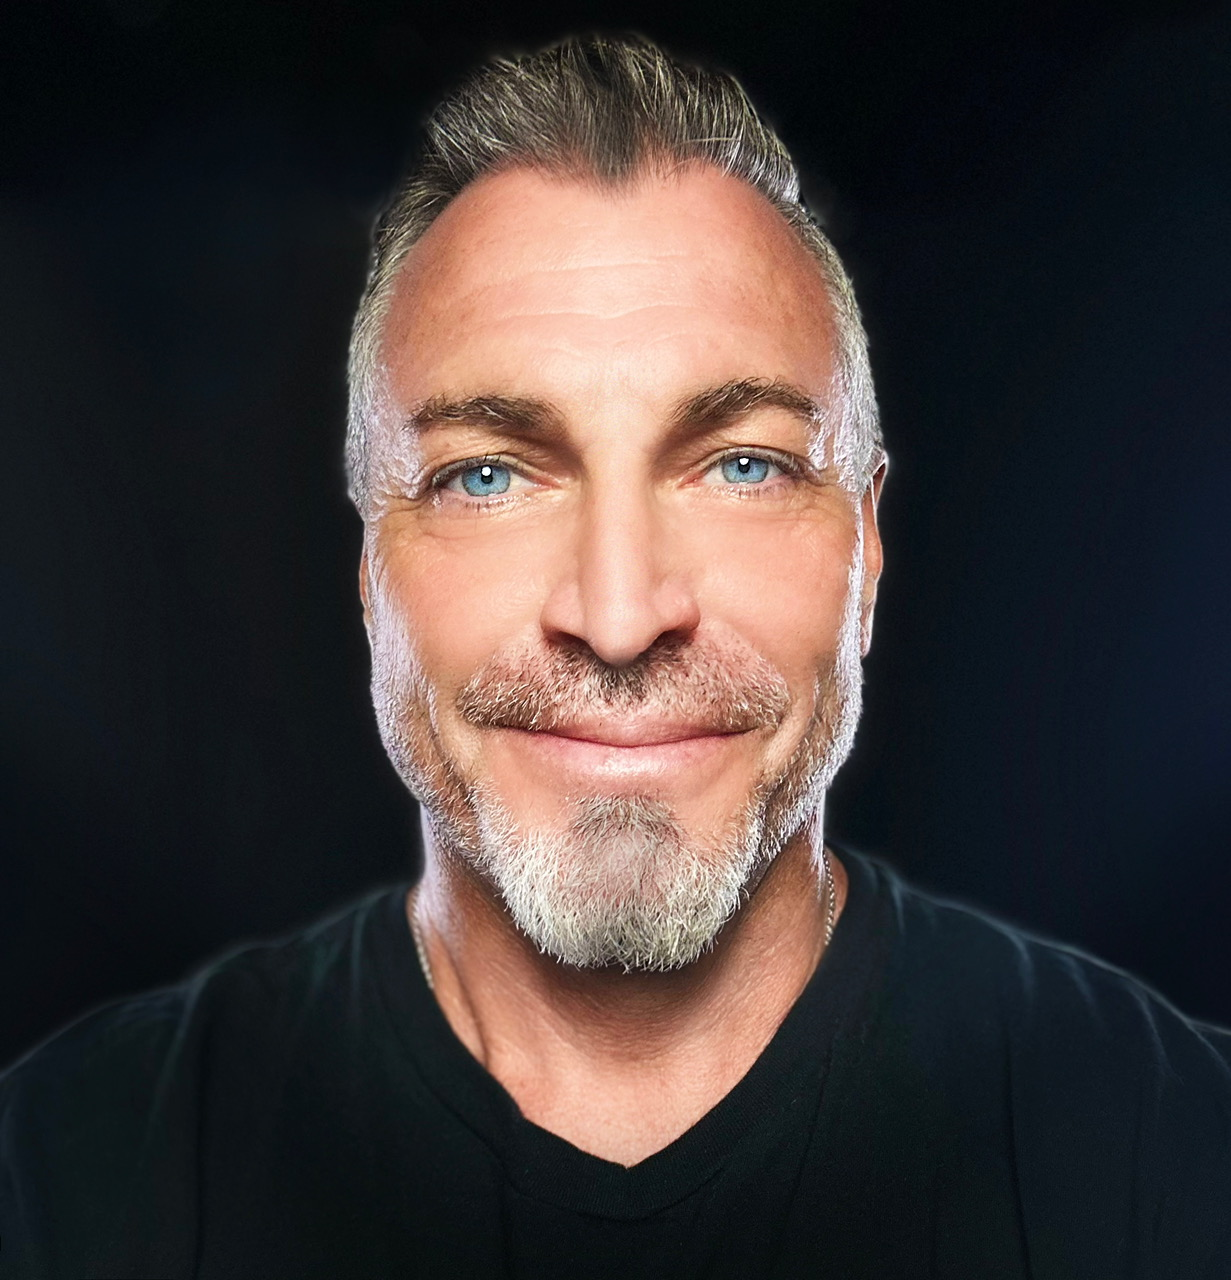
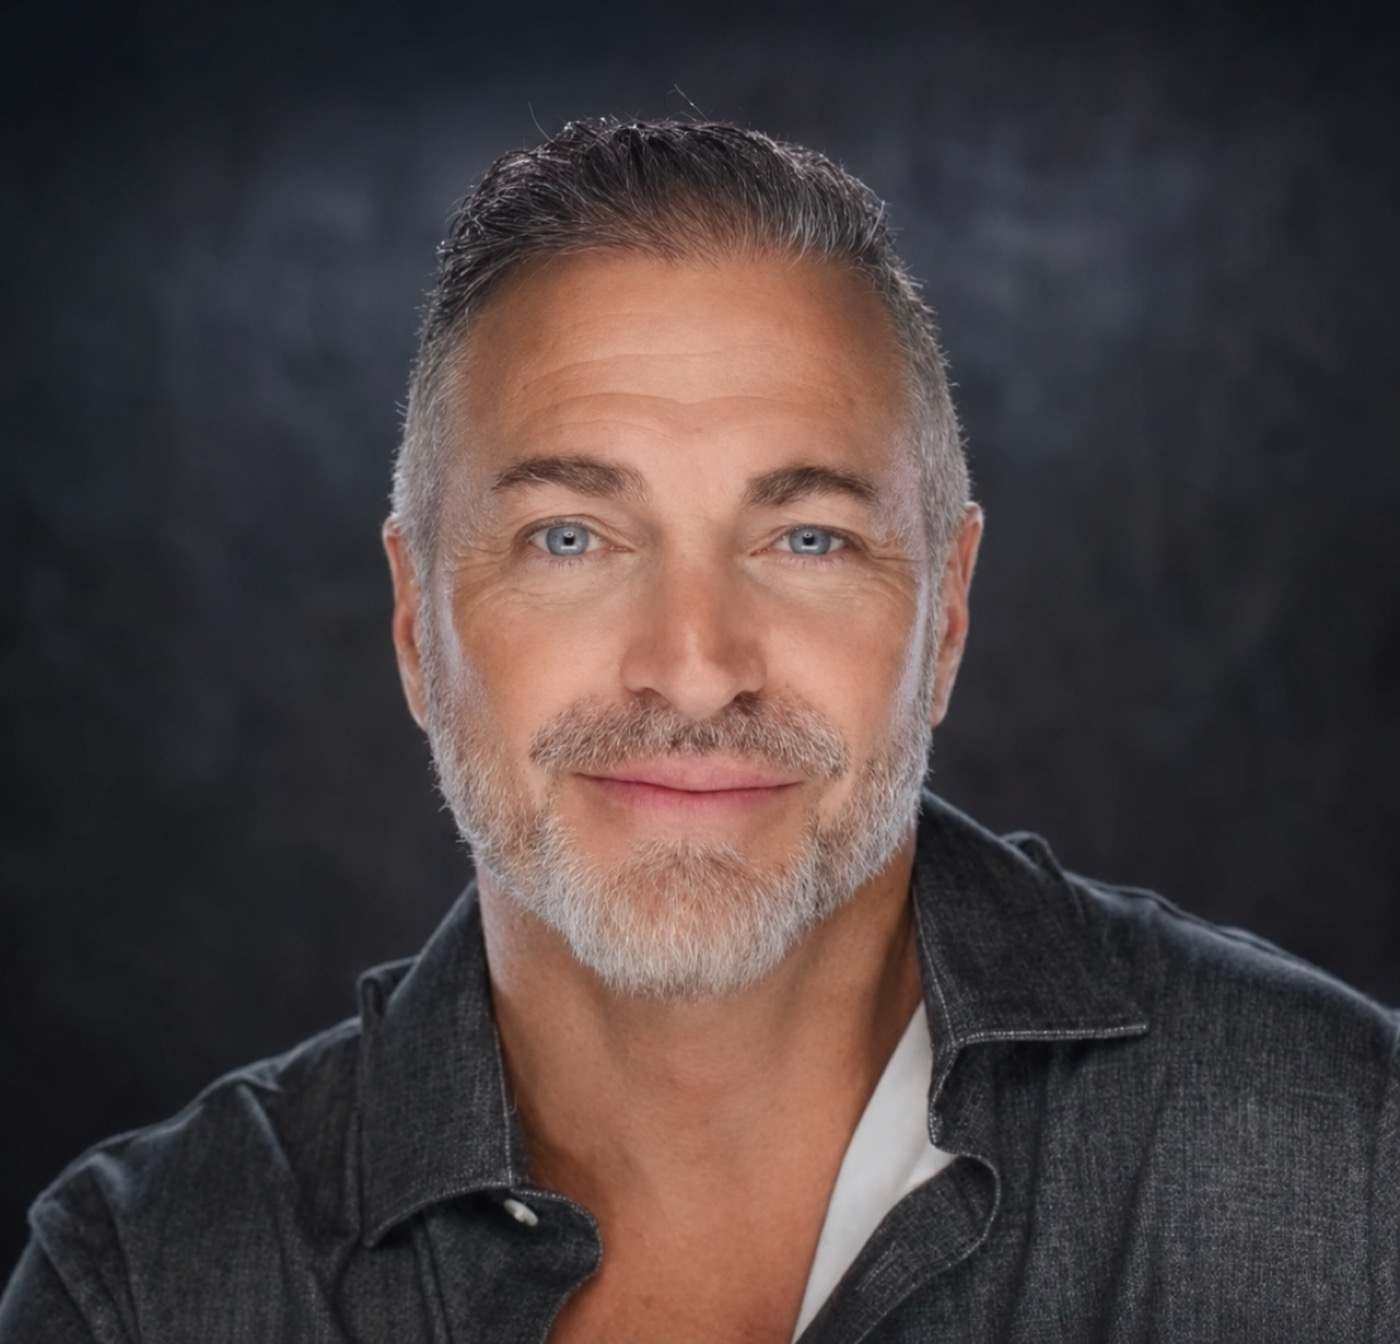
Award under SHINE, weren't fix, item 04 copy, new Mikki + Azai TEDx images, remove seat limit

diff --git a/index.html b/index.html
@@ -227,6 +227,20 @@
         <span class="gold-text shine-glow">SHINE</span>
       </h1>
 
+      <!-- Festival acclaim under the SHINE title -->
+      <div class="flex items-center justify-center gap-4 mt-7">
+        <svg width="34" height="58" viewBox="0 0 40 70" fill="none" class="text-gold/85 shrink-0">
+          <path d="M34 4C20 12 14 26 16 44c0 0-9-6-11-18M34 18C22 24 18 35 19 49c0 0-8-4-10-14M34 33C25 37 22 45 22 55c0 0-7-3-9-11M33 49c-6 2-9 7-9 14 0 0-5-2-7-8" stroke="currentColor" stroke-width="2" stroke-linecap="round"/>
+        </svg>
+        <div>
+          <div class="font-head tracking-[0.16em] text-sm sm:text-base text-goldlt uppercase">Winner &mdash; Best Documentary Short</div>
+          <div class="font-head tracking-[0.14em] text-xs sm:text-sm text-cream/70 uppercase mt-1">Santa Monica Film Festival</div>
+        </div>
+        <svg width="34" height="58" viewBox="0 0 40 70" fill="none" class="text-gold/85 shrink-0" style="transform:scaleX(-1);">
+          <path d="M34 4C20 12 14 26 16 44c0 0-9-6-11-18M34 18C22 24 18 35 19 49c0 0-8-4-10-14M34 33C25 37 22 45 22 55c0 0-7-3-9-11M33 49c-6 2-9 7-9 14 0 0-5-2-7-8" stroke="currentColor" stroke-width="2" stroke-linecap="round"/>
+        </svg>
+      </div>
+
     </div>
 
     <!-- SPLIT: Left image / Right sign-up widget + countdown -->
@@ -295,15 +309,10 @@
 
         <div class="hairline w-full my-5"></div>
 
-        <div class="flex items-center justify-center gap-5 text-center">
-          <div>
-            <div class="font-head text-gold text-2xl leading-none">10,000</div>
-            <div class="font-head tracking-[0.14em] text-[10px] text-cream/55 uppercase mt-1">Seats Total</div>
-          </div>
-          <span class="w-px h-8 bg-gold/25"></span>
+        <div class="flex items-center justify-center text-center">
           <div>
             <div class="font-head text-gold text-2xl leading-none">June 29</div>
-            <div class="font-head tracking-[0.14em] text-[10px] text-cream/55 uppercase mt-1">Doors Close · Midnight</div>
+            <div class="font-head tracking-[0.14em] text-[10px] text-cream/55 uppercase mt-1">Registration Closes · Midnight</div>
           </div>
         </div>
       </div>
@@ -343,22 +352,9 @@
     <span class="font-head tracking-[0.2em] text-sm sm:text-base text-gold uppercase">A Six Minute Film</span>
     <h2 class="font-head font-semibold uppercase text-[1.5rem] sm:text-5xl text-cream mt-3 mb-6 leading-tight">It is six minutes long.<br class="hidden sm:block" /> It will stay with you a lot longer.</h2>
 
-    <!-- Praise & adulation: SHINE festival acclaim (the award is for the FILM, not the TEDx clip) -->
-    <div class="flex items-center justify-center gap-4 mb-9">
-      <svg width="38" height="64" viewBox="0 0 40 70" fill="none" class="text-gold/85 shrink-0">
-        <path d="M34 4C20 12 14 26 16 44c0 0-9-6-11-18M34 18C22 24 18 35 19 49c0 0-8-4-10-14M34 33C25 37 22 45 22 55c0 0-7-3-9-11M33 49c-6 2-9 7-9 14 0 0-5-2-7-8" stroke="currentColor" stroke-width="2" stroke-linecap="round"/>
-      </svg>
-      <div>
-        <div class="font-head tracking-[0.16em] text-sm sm:text-base text-goldlt uppercase">Winner &mdash; Best Documentary Short</div>
-        <div class="font-head tracking-[0.14em] text-xs sm:text-sm text-cream/70 uppercase mt-1">Santa Monica Film Festival</div>
-      </div>
-      <svg width="38" height="64" viewBox="0 0 40 70" fill="none" class="text-gold/85 shrink-0" style="transform:scaleX(-1);">
-        <path d="M34 4C20 12 14 26 16 44c0 0-9-6-11-18M34 18C22 24 18 35 19 49c0 0-8-4-10-14M34 33C25 37 22 45 22 55c0 0-7-3-9-11M33 49c-6 2-9 7-9 14 0 0-5-2-7-8" stroke="currentColor" stroke-width="2" stroke-linecap="round"/>
-      </svg>
-    </div>
 
     <div class="space-y-5 text-cream/80 text-lg font-light leading-relaxed">
-      <p>SHINE asks the question almost no one is brave enough to ask out loud. What if your desires, your choices, even your thoughts were your own? What if something has been quietly shaping them all along?</p>
+      <p>SHINE asks the question almost no one is brave enough to ask out loud. What if your desires, your choices, even your thoughts weren&rsquo;t your own? What if something has been quietly shaping them all along?</p>
       <p>The most surprising part is who is asking it. SHINE was directed by 14 year old Azai Willis. He saw something clearly that most people miss for their entire life. Then he turned it into a six minute movie so striking it won Best Documentary Short at the Santa Monica Film Festival and is now touring major US film festivals.</p>
       <p>Azai is the son of <span class="text-goldlt">Mikki Willis</span>, director and producer of the Plandemic film series, one of the most watched and most censored documentary series of all time.</p>
       <p class="text-cream/95">On June 30th, father and son sit down together, live, to talk about SHINE and the profound insights it reveals about the precarious moment we are living in, and how to recognize the traps of subliminal influence.</p>
@@ -389,7 +385,7 @@
       </div>
       <div class="card rounded-xl p-7 reveal flex gap-4">
         <span class="font-head text-gold text-3xl leading-none">04</span>
-        <p class="text-cream/85 text-lg font-light">A first look at what comes next</p>
+        <p class="text-cream/85 text-lg font-light">Announcement of what&rsquo;s next for Azai</p>
       </div>
     </div>
   </div>
@@ -453,17 +449,13 @@
             <span class="font-head tracking-[0.14em] text-xs text-cream/55 uppercase">Where</span>
             <span class="text-goldlt font-medium text-right">Live online, from anywhere</span>
           </div>
-          <div class="flex justify-between items-center border-b border-gold/15 pb-3">
+          <div class="flex justify-between items-center">
             <span class="font-head tracking-[0.14em] text-xs text-cream/55 uppercase">Cost</span>
             <span class="text-goldlt font-medium text-right">Free</span>
           </div>
-          <div class="flex justify-between items-center">
-            <span class="font-head tracking-[0.14em] text-xs text-cream/55 uppercase">Seats</span>
-            <span class="text-goldlt font-medium text-right">Capped at 10,000</span>
-          </div>
         </div>
         <p class="text-cream/65 text-sm mt-6 leading-relaxed text-center">
-          Registration closes June 29th at midnight, or the moment all 10,000 seats are claimed, whichever comes first. When they are gone, they are gone.
+          Registration closes June 29th at midnight. Once it closes, it closes.
         </p>
       </div>
     </div>